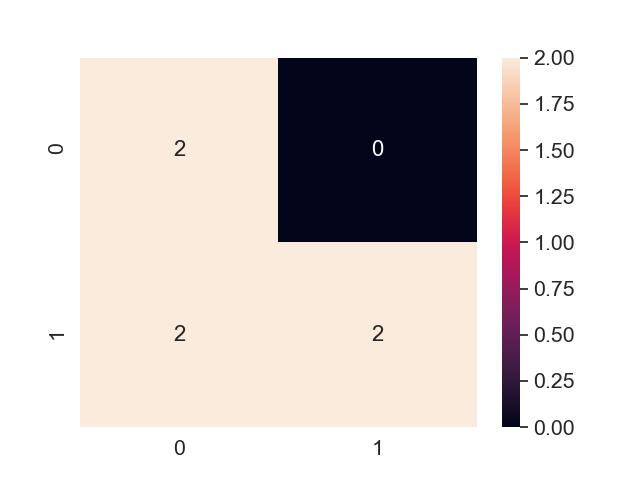
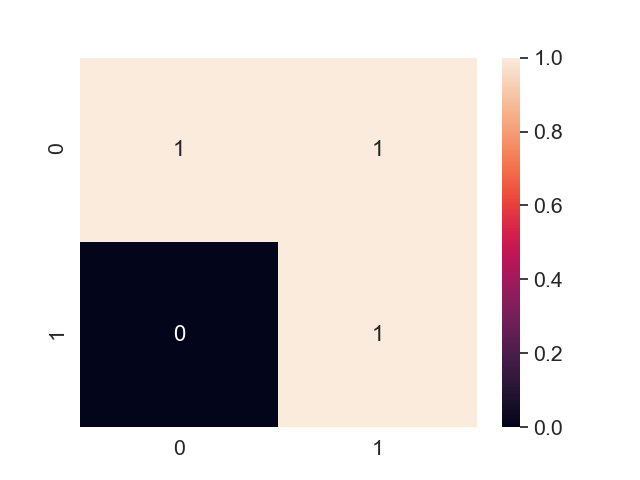
fix bugs and execution output

diff --git a/apicalls.py b/apicalls.py
@@ -13,14 +13,20 @@ URL = "http://127.0.0.1/"
 logger.info("Calling each API endpoint and store the responses")
 
 prediction_call = requests.post(
-    'http://127.0.0.1:8000/prediction?file_location=testdata/testdata.csv').text
+    'http://127.0.0.1:8000/prediction?file_location=testdata/data_test.csv').text
 scoring_call = requests.get('http://127.0.0.1:8000/scoring').text
 stat_call = requests.get('http://127.0.0.1:8000/summarystats').text
 diag_call = requests.get('http://127.0.0.1:8000/diagnostics').text
 
 # combine all API responses
-responses = prediction_call + "\n" + scoring_call + \
-    "\n" + stat_call + "\n" + diag_call
+responses = (
+    f"Perdiction Output:\n {prediction_call}\n"
+    f"Score:\n  {scoring_call}\n"
+    f"Summary Stat:\n {stat_call}\n"
+    f"Diagnostic:\n {diag_call}")
+                
+                
+                
 
 
 # Load config.json and get path variables

diff --git a/fullprocess.py b/fullprocess.py
@@ -85,7 +85,7 @@ with open(os.path.join(prod_deployment_path, "latestscore.txt"), "r") as f:
     prev_score = float(f.read())
 
 # make new prediction using stored model and new ingested data
-new_score = scoring.score_model(new_data=True)
+new_score = scoring.score_model(new_data=False)
 
 # check model drift
 if new_score >= prev_score:
@@ -111,7 +111,7 @@ logger.info("Diagnostics and reporting on the re-deployed model")
 # new data is already split using ingestion.py and outputed to output_folder
 # This Data flow model is leaky, and will be enhanced in the future
 
-folder_name = 'output_folder_path'
+folder_name = os.path.join(config['output_folder_path'])
 file_name = 'data_train.csv'
 
 diagnostics.model_predictions(folder_name, file_name)

diff --git a/scoring.py b/scoring.py
@@ -18,7 +18,7 @@ with open('config.json', 'r') as f:
 
 dataset_csv_path = os.path.join(config['output_folder_path'])
 test_data_path = os.path.join(config['test_data_path'])
-model_folder = os.path.join(config['prod_deployment_path'])
+model_folder = os.path.join(config['output_model_path'])
 
 
 def score_model(new_data=False):

diff --git a/ingestion.py b/ingestion.py
@@ -54,6 +54,7 @@ def merge_multiple_dataframe():
 
     file_names = [os.path.basename(path) for path in datasets]
 
+
     with open(os.path.join(output_folder_path, 'ingestedfiles.txt'), "w") as f:
         for element in file_names:
             f.write(element + "\n")

diff --git a/diagnostics.py b/diagnostics.py
@@ -77,7 +77,7 @@ def execution_time():
     fnc_ref_names = ['ingestion', 'training']
 
     function_timings = defaultdict(list)
-    iterations = 10
+    iterations = 3
 
     logger.info(
         f"Execution time for ingestion and traing in {iterations} iteration")

diff --git a/app.py b/app.py
@@ -51,7 +51,7 @@ logger.info("Scoring Endpoint")
 def score_stats():
     """check the score of the deployed model, returns F1 score"""
 
-    f1_score_ = scoring.score_model()
+    f1_score_ = scoring.score_model(new_data=True)
     return str(f1_score_)
 
 

diff --git a/training.py b/training.py
@@ -64,7 +64,7 @@ def data_split():
 
     splits["train"], splits["test"] = train_test_split(
         df_data,
-        test_size=0.2,
+        test_size=0.1,
         random_state=42,
 
     )
